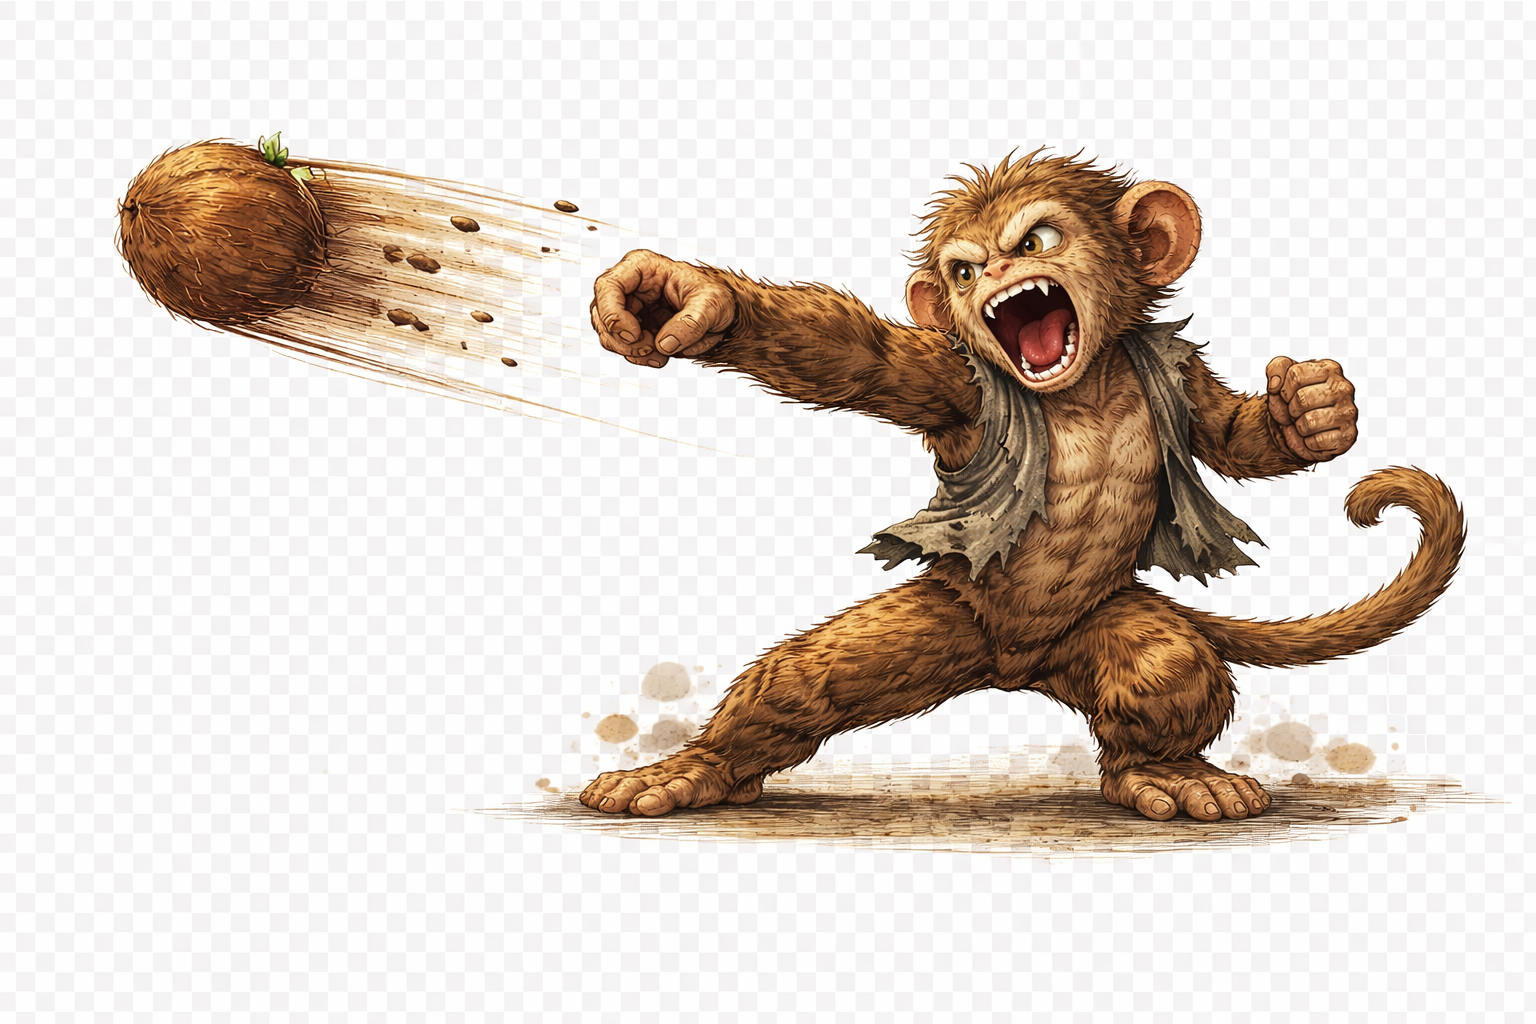
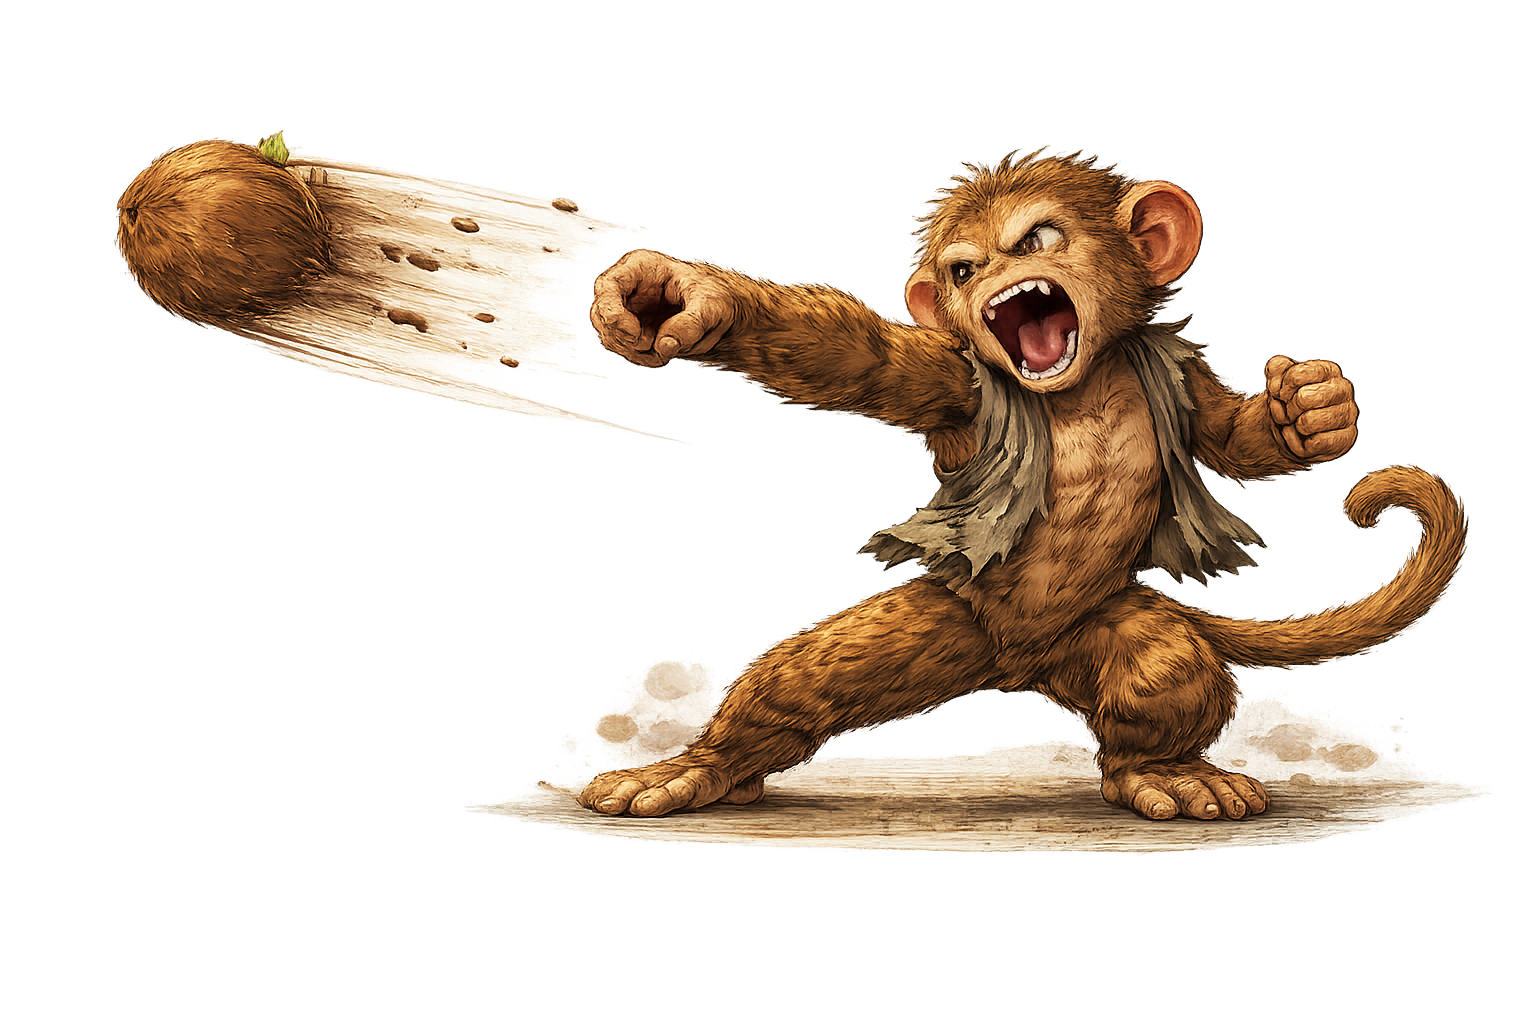
修正battle頁面

Changed region(s): [[0.0625, 0.125, 0.9688, 0.8438]]

diff --git a/danang/battle_stone.html b/danang/battle_stone.html
@@ -63,14 +63,6 @@
     }
     .hp-bar-fill.monkey { background: linear-gradient(90deg, #ff4444, #ff8800); }
     .hp-bar-fill.nunu   { background: linear-gradient(90deg, #44aaff, #00eeff); }
-    .hp-hearts {
-      display: flex;
-      gap: 3px;
-      margin-top: 4px;
-      flex-wrap: wrap;
-    }
-    .heart { font-size: 0.75rem; transition: all 0.3s; }
-    .heart.lost { filter: grayscale(1) opacity(0.3); }
 
     /* 連擊提示 */
     .combo-badge {
@@ -333,7 +325,10 @@
     </div>
     <div class="hp-block" style="text-align:right;">
       <div class="hp-label">努努 ❤️</div>
-      <div class="hp-hearts" id="nunuHearts" style="justify-content:flex-end;"></div>
+      <div class="hp-bar-wrap">
+        <div class="hp-bar-fill nunu" id="nunuHpBar" style="width:100%"></div>
+      </div>
+      <div id="nunuHpText" style="font-size:0.7rem;color:#f4e3b2;margin-top:3px;">15 / 15</div>
     </div>
   </div>
 
@@ -430,17 +425,30 @@ async function init() {
 }
 
 async function loadQuestions() {
-  // 混合三科題庫
+  const BASE_URL = 'https://nuniverseland.github.io/nunuquest/data/';
   const files = ['questions_science', 'questions_spelling', 'questions_grammar'];
   let all = [];
   for (const f of files) {
     try {
-      const res = await fetch(`https://nuniverseland.github.io/nunuquest/data/${f}.json`);
-      const data = await res.json();
-      all = all.concat(data);
-    } catch(e) { console.log('載入失敗:', f); }
+      const res = await fetch(BASE_URL + f + '.json', { cache: 'no-cache' });
+      if (res.ok) {
+        const data = await res.json();
+        all = all.concat(data);
+      }
+    } catch(e) {
+      console.log('載入失敗:', f, e);
+    }
   }
-  // 洗牌
+  if (all.length === 0) {
+    // 備用：如果fetch失敗，用內建測試題
+    all = [
+      {"question":"We set up a ___ in the woods.","answer":"camp","wordBank":["camp","pond","sing","hunt","end"]},
+      {"question":"The boat ___ to the bottom of the lake.","answer":"sank","wordBank":["bring","sank","next","stand","long"]},
+      {"question":"Please ___ some water.","answer":"drink","wordBank":["drink","stand","pond","end","stamp"]},
+      {"question":"Caryn ___ a ballet recital tonight.","answer":"has","wordBank":["have","has","had"]},
+      {"question":"We ___ a lot of jumping jacks.","answer":"do","wordBank":["do","does","did"]},
+    ];
+  }
   questionPool = shuffle(all);
 }
 
@@ -585,18 +593,17 @@ function damageMonkey(dmg) {
 
 function damageNunu(dmg) {
   nunuHp = Math.max(0, nunuHp - dmg);
-  renderHearts();
+  updateNunuHpBar();
+}
+
+function updateNunuHpBar() {
+  const pct = (nunuHp / NUNU_MAX_HP * 100) + '%';
+  document.getElementById('nunuHpBar').style.width = pct;
+  document.getElementById('nunuHpText').textContent = `${nunuHp} / ${NUNU_MAX_HP}`;
 }
 
 function renderHearts() {
-  const container = document.getElementById('nunuHearts');
-  container.innerHTML = '';
-  for (let i = 0; i < NUNU_MAX_HP; i++) {
-    const h = document.createElement('span');
-    h.className = 'heart' + (i >= nunuHp ? ' lost' : '');
-    h.textContent = i < nunuHp ? '❤️' : '🖤';
-    container.appendChild(h);
-  }
+  updateNunuHpBar();
 }
 
 function setMonkeyImg(state) {